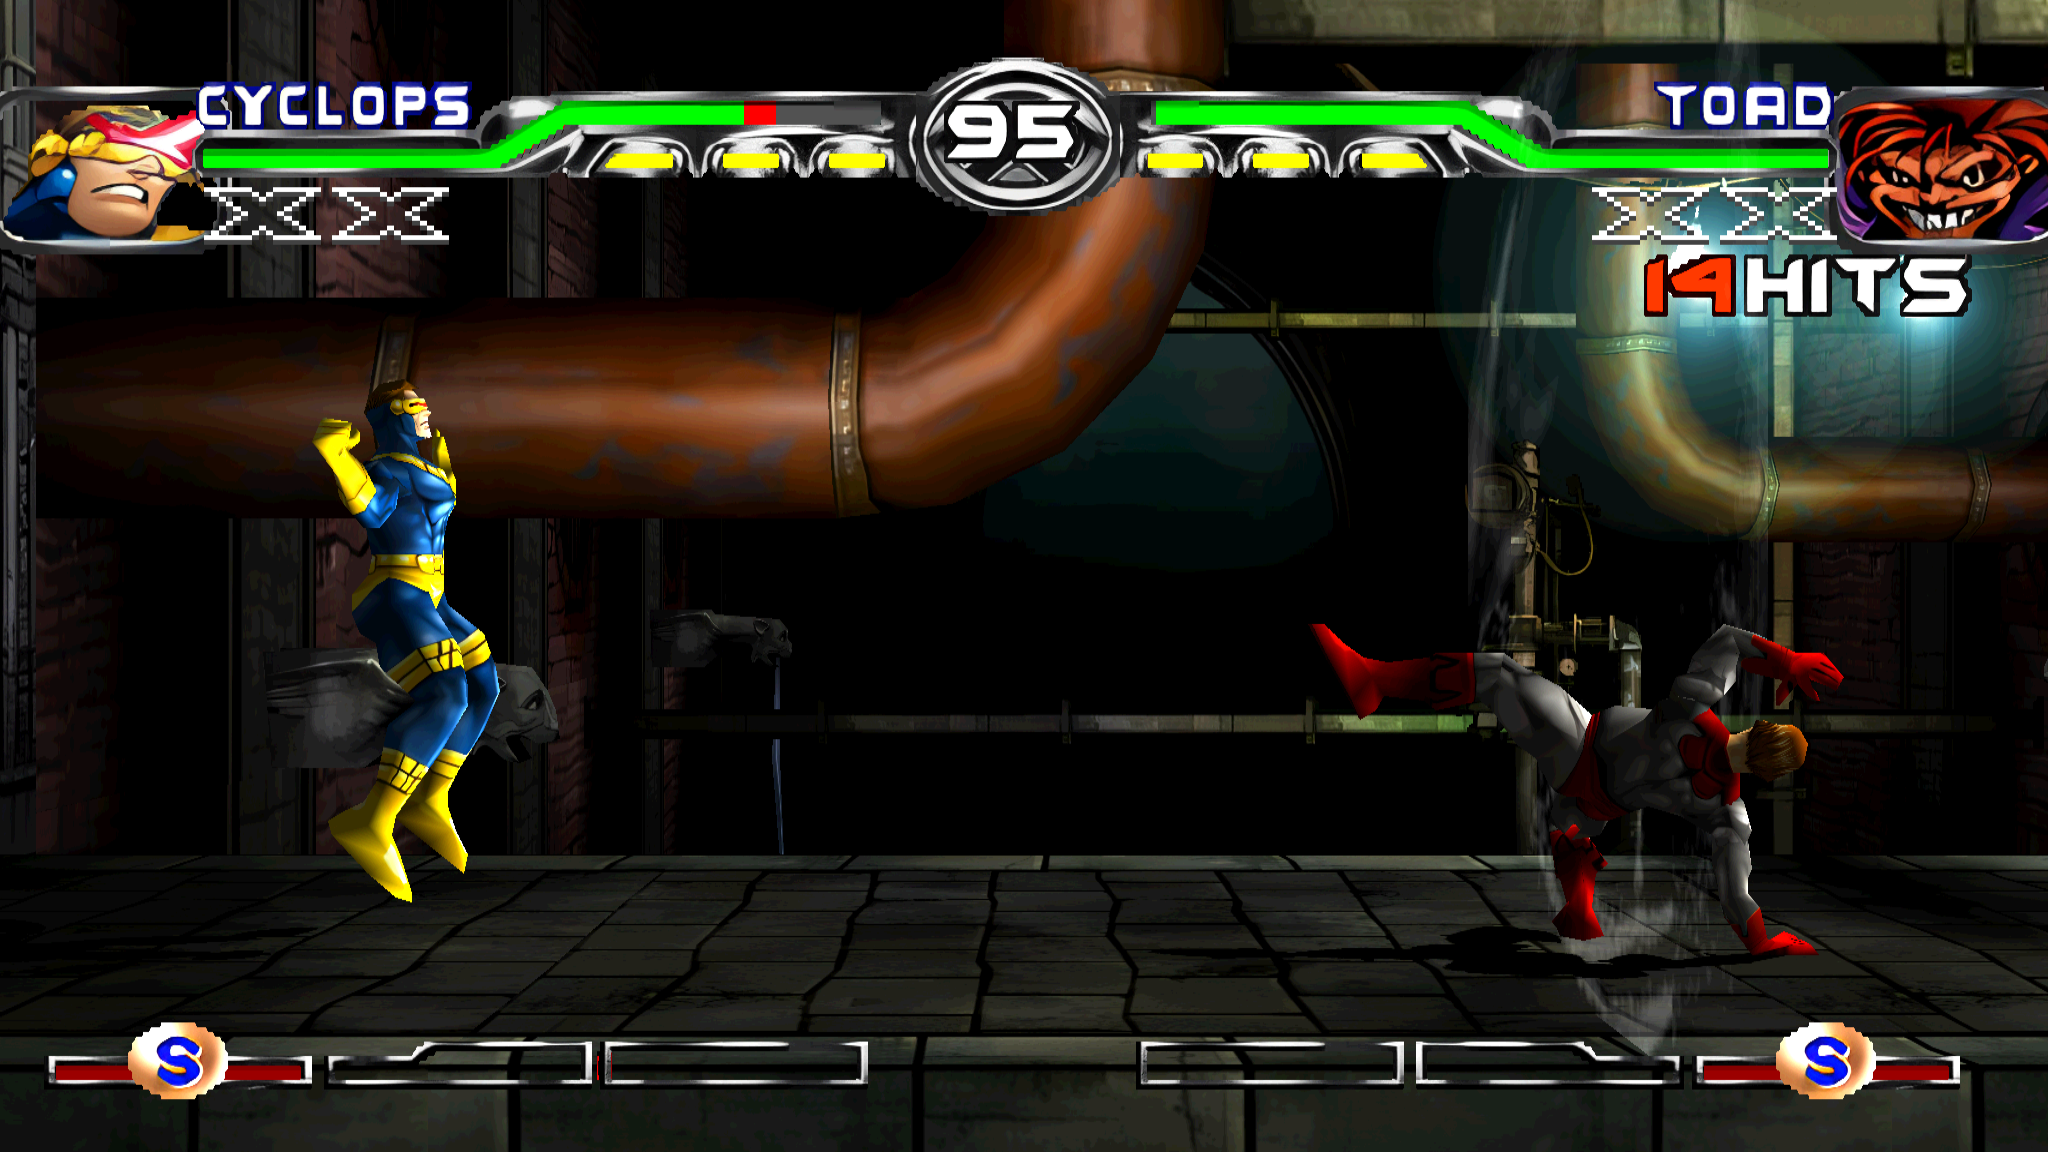
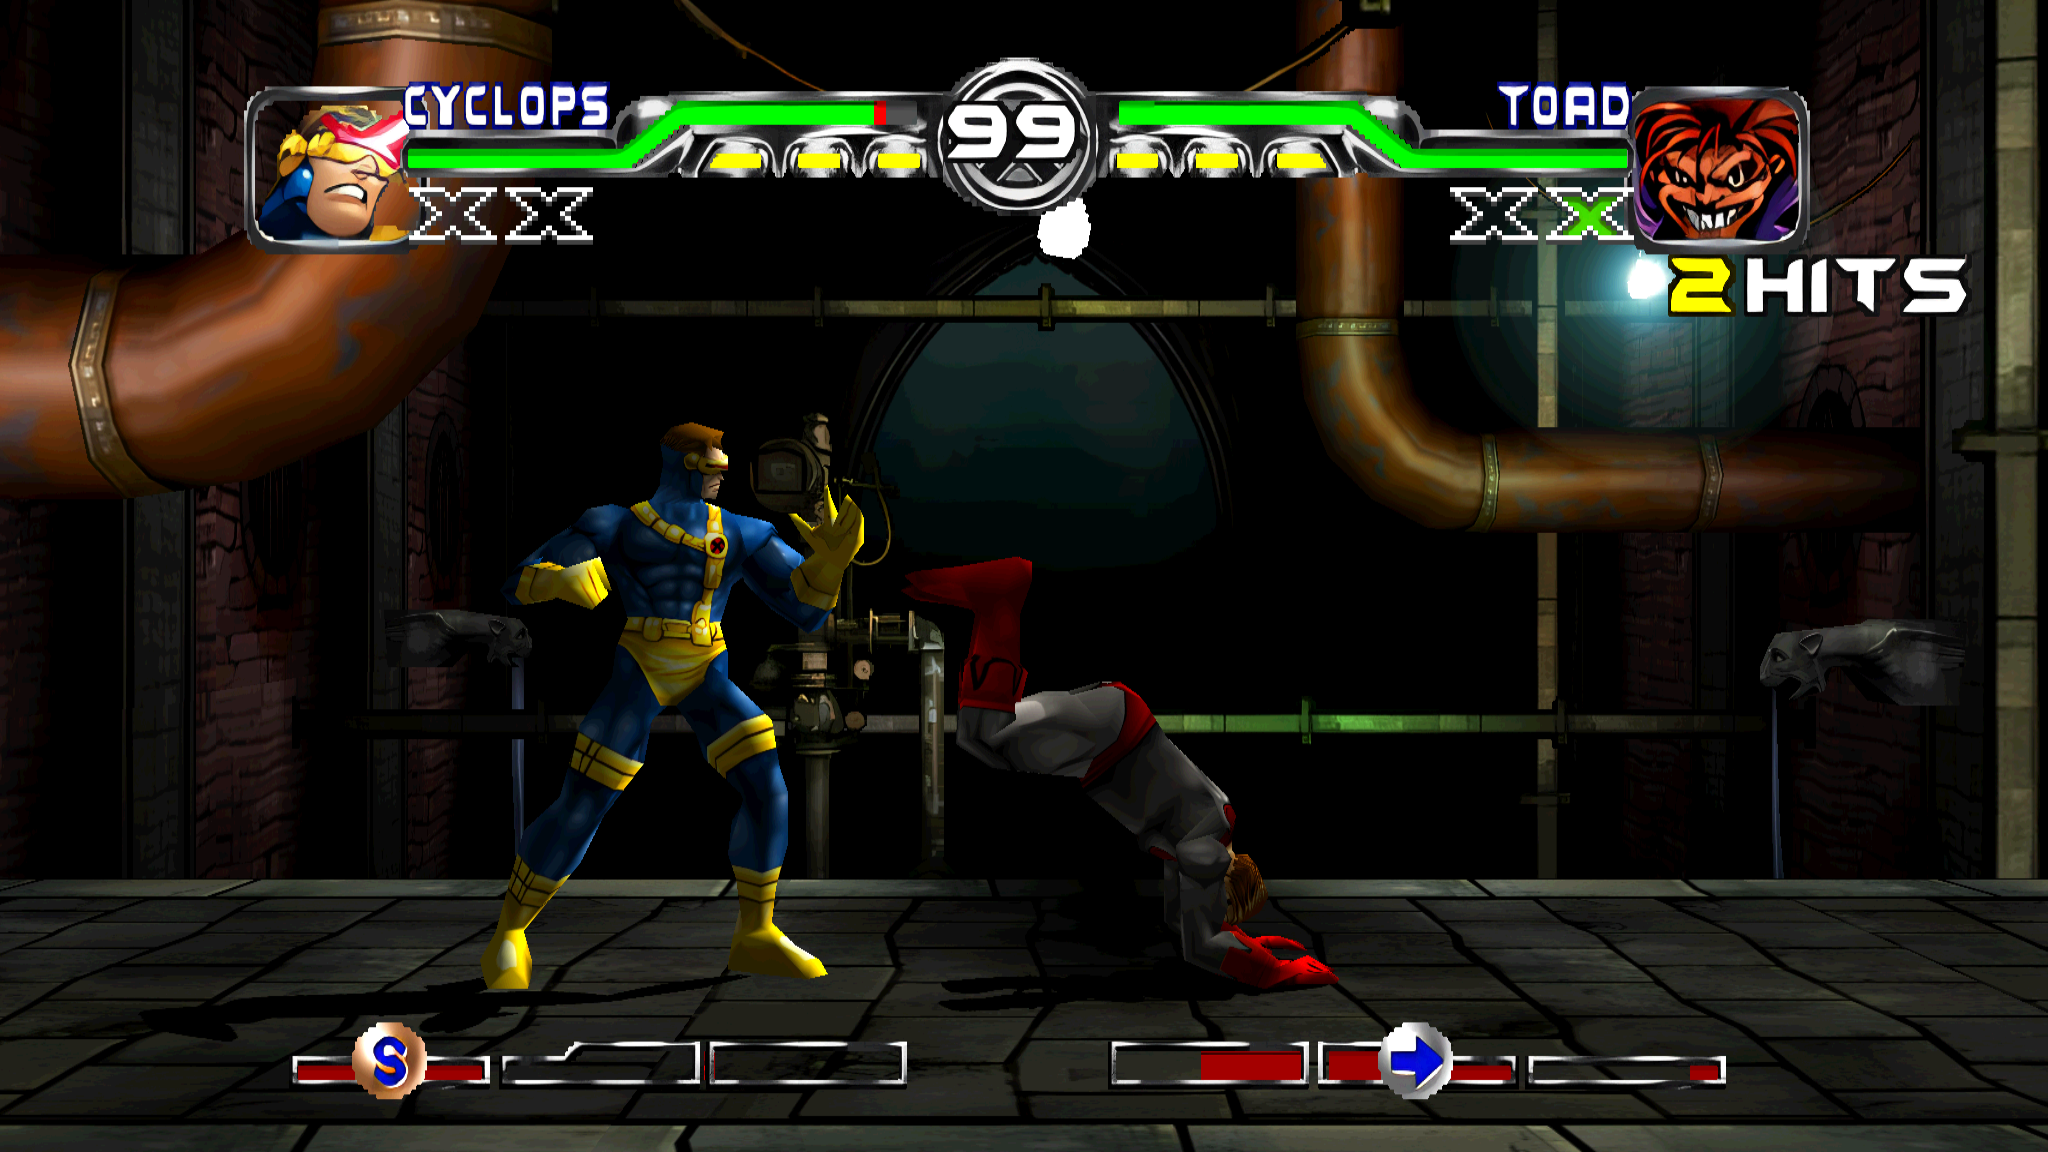
Separate the HUD from the stage using the game's own sprite table
The HUD came out a third wide. It is flat artwork at fixed screen positions, so
it skips the projection squeeze that makes widescreen work but still gets the
stretch back out at presentation. Correcting it needs the HUD told apart from the
stage at draw time, and nothing in the GPU stream does that: both are gouraud
textured triangles, drawn from one ordering table, sharing palettes. Matching a
primitive against the positions the GTE produced misses 75,000 of 82,000
triangles in a fight, because the game zeroes the GTE screen offset and adds its
own anchor per object. Palette shares four CLUTs. Nothing arrives via DrawPrim.

The game's own code separates them. func_80073630 asserts a sprite index is below
225 and indexes a table at 0x800E30D8 with a stride of 0x58, each record holding
two POLY_FT4 packets -- one per framebuffer -- and their tag words. That table is
its entire 2D overlay list. Primitives assembled inside it are squeezed by the
same three quarters the projection uses, so the stretch returns them to the shape
they were drawn, and the stage is left alone.

Verified against a fight before anything was built on it: every HUD primitive is
assembled in that range, all 1,371 of the frame's others are outside it, and
nothing else lives near it.

Finding it needed an answer to "what wrote this address", which a static
recompilation cannot give the way an emulator can, because there is no program
[…]

diff --git a/port/patches/Harness.cs b/port/patches/Harness.cs
@@ -4,6 +4,7 @@ using System.Globalization;
 using System.IO;
 using RecompOne.Runtime;
 using RecompOne.Runtime.Events;
+using RecompOne.Runtime.Diagnostics;
 using RecompOne.Runtime.Memory;
 
 namespace Recompiled;
@@ -20,6 +21,8 @@ namespace Recompiled;
 ///   XMENMA2_RAMDUMP=2700,2900     write ram-&lt;frame&gt;.bin at these frames
 ///   XMENMA2_POKE=3000:80098abc=5  write a byte (or =5:w / =5:l for 16/32-bit)
 ///   XMENMA2_WATCH=80098abc,4      log this address every frame it changes
+///   XMENMA2_WRITEPROBE=e3550-e5700
+///                                 name the code that writes a range of RAM
 ///
 /// Addresses are PlayStation addresses; the usual 0x8009xxxx form works, and so does a
 /// bare RAM offset. All of this is off unless the environment asks for it.
@@ -56,6 +59,7 @@ public static class Harness
         ParseDumps(Environment.GetEnvironmentVariable("XMENMA2_RAMDUMP"));
         ParsePokes(Environment.GetEnvironmentVariable("XMENMA2_POKE"));
         ParseWatches(Environment.GetEnvironmentVariable("XMENMA2_WATCH"));
+        ParseProbe(Environment.GetEnvironmentVariable("XMENMA2_WRITEPROBE"));
         _dir = Environment.GetEnvironmentVariable("XMENMA2_RAMDIR") ?? "ram";
         if (!_active) return;
 
@@ -116,6 +120,74 @@ public static class Harness
         }
     }
 
+    /// <summary>
+    /// XMENMA2_WRITEPROBE=e3550-e5700 -- name the game code that writes a range of RAM.
+    ///
+    /// The drawing packets on screen say nothing about which routine assembled them, and
+    /// a recompilation has no program counter to catch in the act. WriteProbe snapshots
+    /// the call ring on the first write into the range instead, and this reports the tail
+    /// of it once per frame, so a packet identified on screen leads back to its code.
+    /// </summary>
+    static void ParseProbe(string spec)
+    {
+        if (string.IsNullOrWhiteSpace(spec)) return;
+
+        // An optional @frame holds off arming. The same buffers get reused by every
+        // screen, so without it the probe spends its budget on the front end long
+        // before the thing being investigated is on screen.
+        int at = spec.IndexOf('@');
+        if (at >= 0)
+        {
+            long.TryParse(spec[(at + 1)..].Trim(), out _probeFrom);
+            spec = spec[..at];
+        }
+
+        int dash = spec.IndexOf('-');
+        if (dash <= 0) return;
+
+        _probeLo = ParseAddress(spec[..dash]) & 0x1FFFFF;
+        _probeHi = ParseAddress(spec[(dash + 1)..]) & 0x1FFFFF;
+        if (_probeHi < _probeLo) (_probeLo, _probeHi) = (_probeHi, _probeLo);
+
+        _probing = true;
+        _active = true;
+    }
+
+    static bool _probing, _probeArmed;
+    static long _probeFrom;
+    static uint _probeLo, _probeHi;
+    static int _probeReports;
+
+    static void ReportProbe(long frame)
+    {
+        if (!_probeArmed)
+        {
+            if (frame < _probeFrom) return;
+            _probeArmed = true;
+            WriteProbe.Arm(_probeLo, _probeHi);
+            Console.WriteLine($"[probe] armed on 0x{_probeLo:X6}-0x{_probeHi:X6} at frame {frame}");
+            return;
+        }
+
+        if (!WriteProbe.TryTake(out uint offset, out var callers)) return;
+        if (++_probeReports > 24) { WriteProbe.Disarm(); return; }
+
+        // Most recent last: the tail is what was running when the write landed. Repeats
+        // are collapsed, since a routine called in a loop otherwise fills the whole line.
+        var trail = new List<string>();
+        uint prev = 0; int run = 0;
+        foreach (uint a in callers)
+        {
+            if (a == prev) { run++; continue; }
+            if (prev != 0) trail.Add(run > 1 ? $"{prev:X8}x{run}" : $"{prev:X8}");
+            prev = a; run = 1;
+        }
+        if (prev != 0) trail.Add(run > 1 ? $"{prev:X8}x{run}" : $"{prev:X8}");
+
+        Console.WriteLine($"[probe] frame {frame} wrote 0x{offset:X6} <- " +
+                          string.Join(" ", trail.GetRange(Math.Max(0, trail.Count - 12), Math.Min(12, trail.Count))));
+    }
+
     static uint Read(IMemory mem, uint address, int width) => width switch
     {
         4 => mem.ReadU32(address),
@@ -127,6 +199,8 @@ public static class Harness
     {
         var mem = Runtime.Mem;
         if (mem == null) return;
+
+        if (_probing) ReportProbe(e.Frame);
 
         foreach (var p in _pokes)
         {

diff --git a/port/patches/Widescreen.cs b/port/patches/Widescreen.cs
@@ -41,6 +41,12 @@ public static class Widescreen
     const string On = "16:9";
     const string Off = "off";
 
+    // The game's 2D overlay list, as a RAM offset. From func_80073630, which asserts the
+    // sprite index is below SpriteCount and indexes SpriteTable by SpriteStride.
+    const uint SpriteTable = 0x000E30D8;
+    const uint SpriteCount = 225;
+    const uint SpriteStride = 0x58;
+
     static string _forced;      // XMENMA2_WIDE, if it was set
     static string _applied;     // what Display.WideAspect currently reflects
 
@@ -87,6 +93,22 @@ public static class Widescreen
         Display.WideAspect = on ? 16f / 9f : 0f;
         Display.Squeezing = on;
         Gte.SqueezeX = on ? (3 * 65536) / 4 : 65536;
+
+        // The HUD is drawn flat at fixed screen positions, so it never goes through that
+        // squeeze but does get the stretch, and would come out a third wide. It has to be
+        // squeezed to match, which means telling it apart from the stage -- and nothing in
+        // the GPU stream does: both are gouraud textured triangles, in one ordering table,
+        // sharing palettes.
+        //
+        // The game's own code does. func_80073630 bounds-checks a sprite index against
+        // 225 and indexes a table at 0x800E30D8 with a stride of 0x58, each record holding
+        // two POLY_FT4 packets -- one per framebuffer -- and their two tag words. That
+        // table is the game's entire 2D overlay list. Checked against a fight: every one of
+        // the HUD's primitives is assembled inside it, all 1,371 of the frame's others are
+        // outside it, and no packet below the table's neighbourhood belongs to anything
+        // else.
+        Display.SetOverlay(on ? SpriteTable : 0, on ? SpriteTable + SpriteCount * SpriteStride : 0,
+                           on ? 0.75f : 0f);
 
         // 4:3 on the first frame is the default; only say something once it matters.
         if (first && !on) return;

diff --git a/port/patches/Diag.cs b/port/patches/Diag.cs
@@ -349,6 +349,7 @@ public static class Diag
         Write($"[prim] n={e.Count} " +
               $"{(e.Textured ? "T" : "-")}{(e.SemiTransparent ? "S" : "-")}" +
               $"{(e.Gouraud ? "G" : "-")}{(e.Raw ? "R" : "-")} " +
-              $"clut={e.Clut:X4} area=[{e.DrawLeft},{e.DrawTop}..{e.DrawRight},{e.DrawBottom}] {v}");
+              $"clut={e.Clut:X4} pkt={e.PacketAddress:X8} " +
+              $"area=[{e.DrawLeft},{e.DrawTop}..{e.DrawRight},{e.DrawBottom}] {v}");
     }
 }

diff --git a/port/README.md b/port/README.md
@@ -277,26 +277,41 @@ frame mid-fight cannot flip the shape of the output for one frame.
 Nothing is padded at presentation. Padding a frame out to a fixed shape boxes the picture
 a second time inside whatever shape the window happens to be; fitting is the window's job.
 
-**The HUD is stretched, and that is the cost of this approach.** Health bars, timer and
-portraits are 2D sprites the game draws at fixed screen positions, so they never went
-through the projection squeeze but do go through the stretch back out, and come out a
-third wider. They reach the edges of the screen instead of sitting in a 4:3 island, which
-is arguably the better look, but the portraits are visibly broader.
+### The HUD, and telling it from the stage
 
-Undoing it means telling a flat overlay from the 3D at draw time, and one attempt at that
-is worth recording so nobody repeats it. The idea was that the GTE produces the exact
-screen positions the game copies into its drawing packets, so a primitive whose corners
-are all GTE output is 3D and anything else is an overlay. It does not work: **two fifths
-of the stage fails the test** — 33,000 of 82,000 triangles over 120 frames of a fight,
-and loosening it to *any* corner matching, or keeping two frames of projections in case
-the drawing list is built a frame ahead, moves that by less than a percent. The game does
-not copy GTE output into packets unchanged. Squeezing the misclassified stage geometry
-pulls it away from the screen edges and leaves the previous frame showing in the gaps.
+The HUD is drawn flat at fixed screen positions, so it never goes through the projection
+squeeze but does go through the stretch, and would come out a third wide. Fixing that
+means separating it from the stage at draw time, and **nothing in the GPU stream does
+it**. Three separators were tried and measured, and all three fail:
 
-Doing it properly means provenance rather than a guess: tag the words the game stores out
-of the GTE registers, and read that tag back when the drawing list is walked. That is a
-change in the recompiler's COP2 emission as well as the GPU path, and it has not been
-attempted.
+- **The positions the GTE produced.** The game sets the GTE screen offset to zero and
+  adds its own anchor per object, so the projected value is never what lands in the
+  packet: 75,000 of 82,000 triangles in a fight have no corner matching any of the 7,700
+  positions projected that frame, and no constant offset relates the two sets.
+- **Palette.** Thirteen CLUTs are unique to the HUD and eight to the stage, but four are
+  shared, including the commonest one in the HUD.
+- **Which drawing call it arrived in.** During a fight there is exactly one ordering
+  table per frame and `DrawPrim` is never called, so the HUD is interleaved with the
+  stage by depth in a single list.
+
+What separates them is the game's own code. `func_80073630` asserts a sprite index is
+below 225 and indexes a table at `0x800E30D8` with a stride of `0x58`, each record
+holding two `POLY_FT4` packets -- one per framebuffer -- followed by their two tag words.
+That table is the game's entire 2D overlay list, and the address a primitive was
+assembled at is carried through to the renderer on `PrimFlags.PacketAddress`. Primitives
+built inside the table are squeezed by the same 3/4 the projection uses, so the stretch
+returns them to the shape they were drawn.
+
+Measured against a fight before it was built on: every one of the HUD's primitives is
+assembled inside that range, all 1,371 of the frame's others are outside it, and nothing
+else in the game lives near it.
+
+Finding it needed a way to answer "what wrote this address", which a recompilation cannot
+answer the way an emulator can -- there is no program counter. `WriteProbe` snapshots the
+call ring on the first write into a range instead, and the recompiled functions record
+their own address on entry, so a HUD packet identified on screen leads back to the routine
+that assembled it. `XMENMA2_WRITEPROBE=e35a8-e35bf@4900` is that, and how the sprite table
+was found.
 
 ## Diagnostics
 

diff --git a/TO_DO.md b/TO_DO.md
@@ -90,26 +90,14 @@ they are resolved, not until they are explained.
 
 ## Widescreen
 
-- [ ] **The HUD is stretched a third wider.** The 3D is squeezed in the projection and
-      stretched back at presentation, so it comes out right; the HUD is 2D drawn at fixed
-      screen positions, never squeezed, and gets the stretch anyway. Fixing it needs the
-      HUD told apart from the stage at draw time. Three ways of doing that from the GPU
-      stream alone have been tried and measured, and none of them work:
-      - **Match against the positions the GTE produced.** Dead. The game sets the GTE
-        screen offset to zero and adds its own anchor per object, so the projected value
-        is never what lands in the packet: of 82,000 triangles in a fight, 75,000 have
-        *no* corner matching any of the 7,700 positions projected that frame, and no
-        constant offset relates the two sets — the best candidate accounts for 4% of
-        vertices, which is chance. Squeezing the misclassified stage pulls it off the
-        screen edges and the previous frame shows through the gaps.
-      - **Match by palette.** Dead. Thirteen CLUTs are unique to the HUD bands and eight
-        to the stage, but four are shared, including the commonest one.
-      - **Match by which drawing call it arrived in.** Dead. During a fight there is
-        exactly one ordering table per frame and `DrawPrim` is never called, so the HUD
-        is interleaved with the stage by depth in a single list.
-      What is left is the game's own code: find where the fight overlay composes the HUD
-      packets and squeeze the coordinates there. That means disassembling it, which is
-      the same wall the character-select work hit.
+- [x] **The HUD came out a third wide.** It is flat artwork at fixed screen positions,
+      so it skipped the projection squeeze but got the presentation stretch. Nothing in
+      the GPU stream tells it from the stage — matching the positions the GTE produced
+      misses 75,000 of 82,000 triangles, four CLUTs are shared, and a fight draws
+      everything from one ordering table with no `DrawPrim` at all. The game's own code
+      does separate them: `func_80073630` indexes a 225-entry sprite table at
+      `0x800E30D8`, stride `0x58`, and that table holds every 2D element it draws.
+      Primitives assembled inside it are squeezed to match. (2026-09-04)
 - [ ] **Never seen in motion.** Judged from single frames. Things a still cannot show:
       whether the 3D/flat detection flips shape during a transition, whether anything
       the game parks off-screen becomes visible now the view is wider, and whether the

diff --git a/README.md b/README.md
@@ -61,8 +61,13 @@ and the frame is stretched back out at presentation. The stages are one and a ha
 three screens wide, so there is plenty there to show.
 
 Frames with no 3D in them — the movies, the front end, the VS card — are left at 4:3 and
-letterboxed, never stretched. The HUD is 2D and does go through the stretch, so the
-health bars reach the edges of the screen and the portraits are a third wider.
+letterboxed, never stretched.
+
+The HUD is flat artwork at fixed screen positions, so it would come out a third wide.
+Nothing in the GPU stream separates it from the stage — same primitives, one ordering
+table, shared palettes — so the separation comes from the game's own code: a sprite table
+at `0x800E30D8` holding every 2D element it draws. Primitives assembled in there are
+squeezed to match, and come out the shape they were drawn.
 
 Press **F12** at any time for a screenshot of exactly what is on screen.
 
